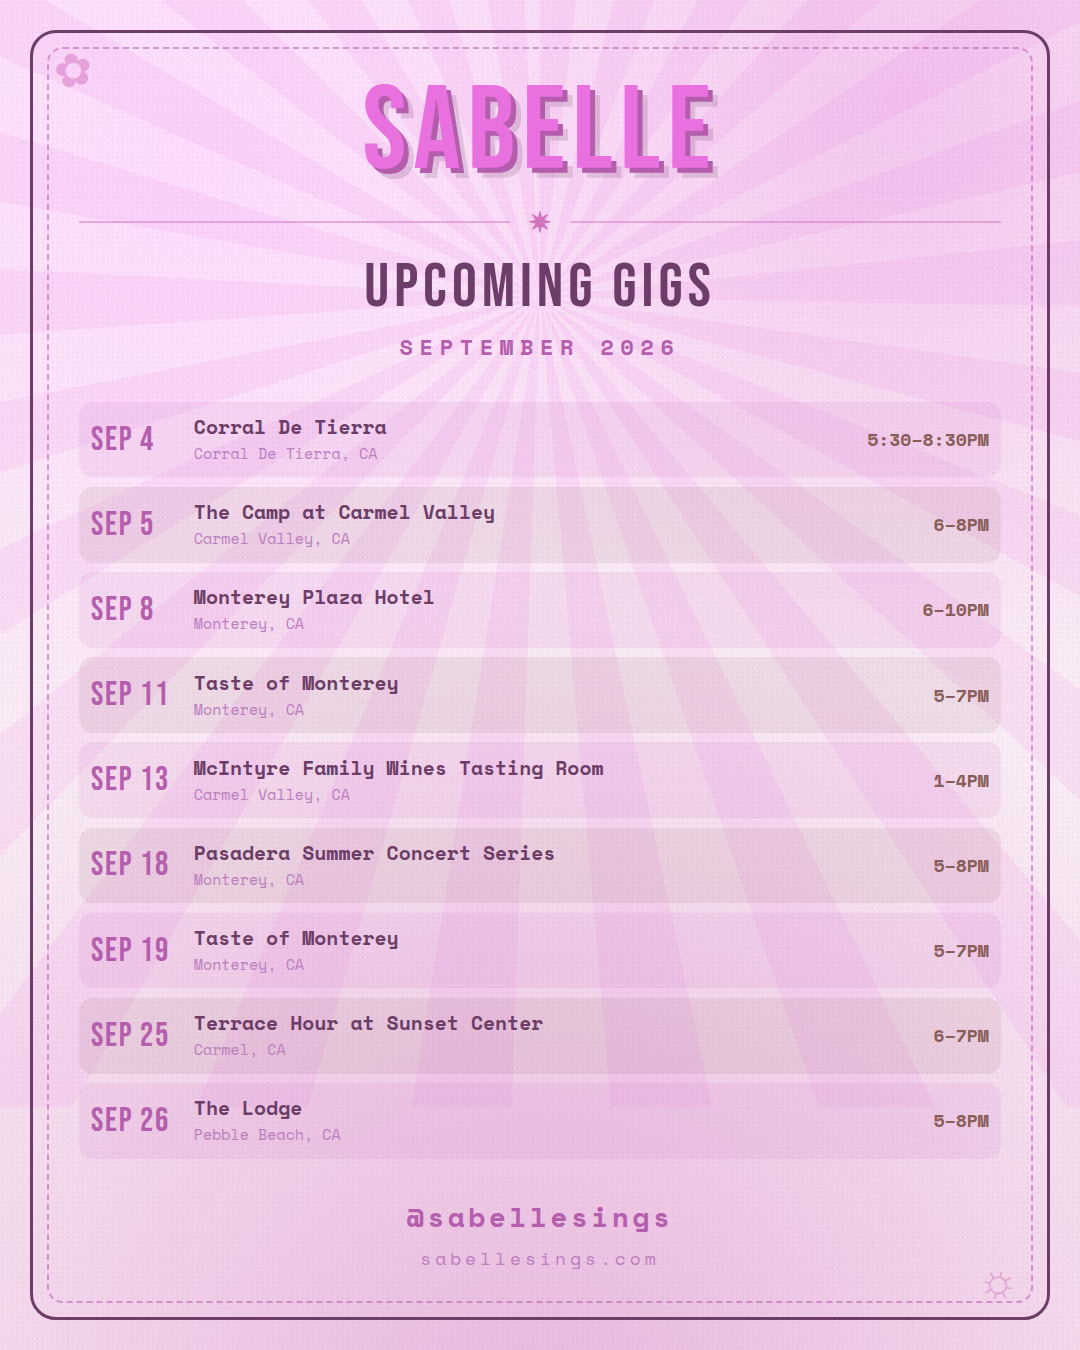
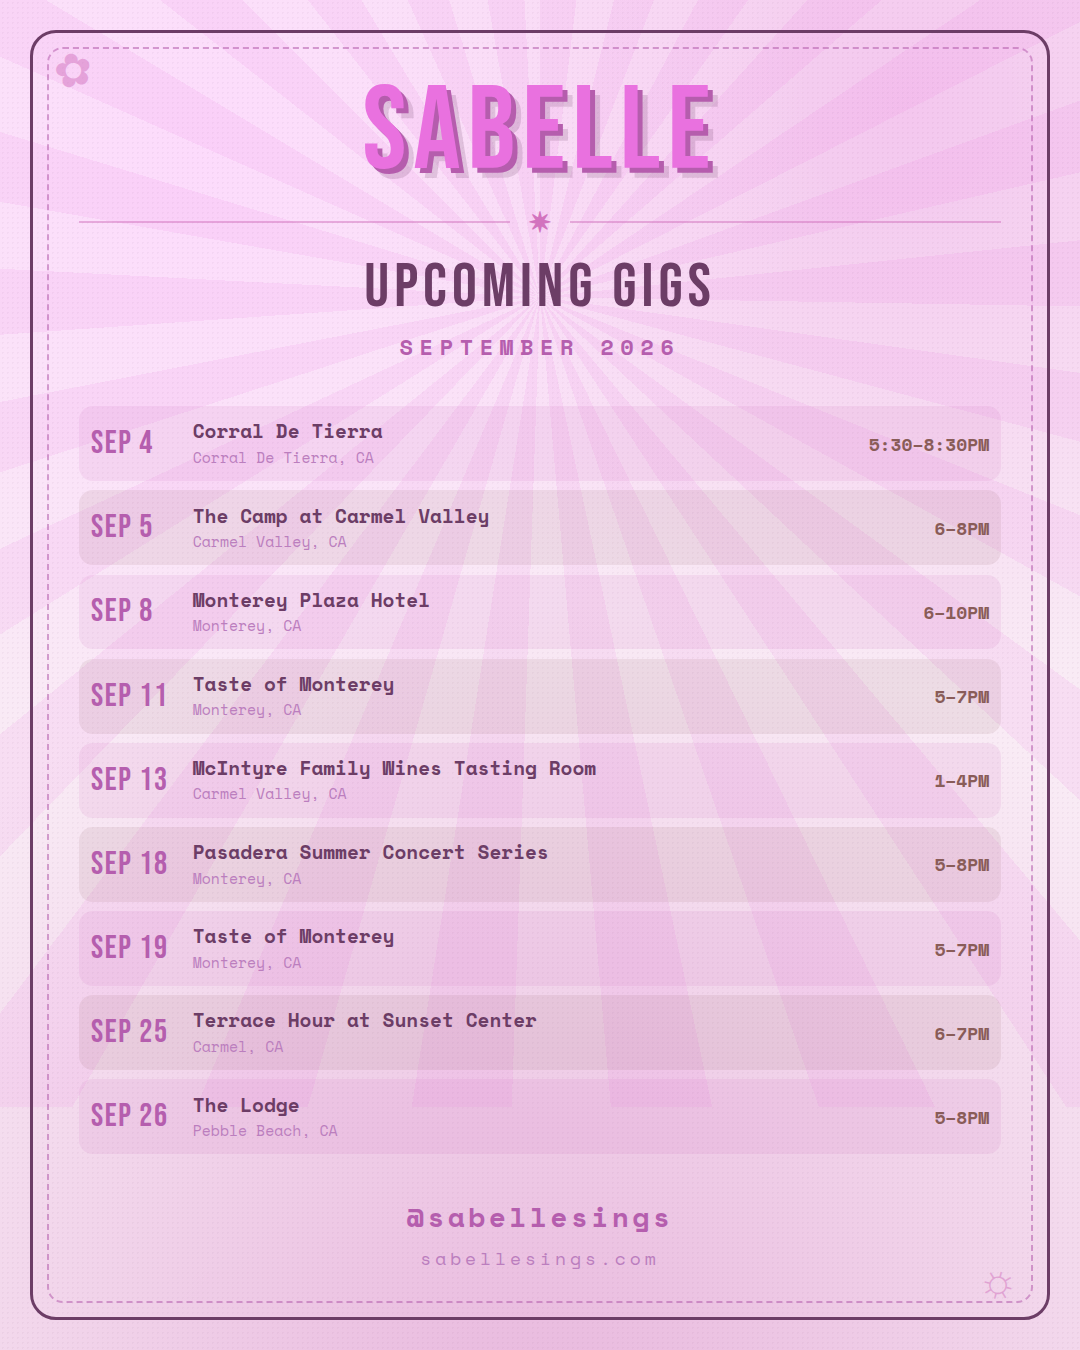
Leave real headroom in the poster fit budgets
The story sweep's upper end arrived after the budgets were set, and it showed
18 rows fitting at exactly 0.50 -- which is precisely the scale a budget of 9.0
asks for. Zero headroom, on the very card whose comment claims it leaves margin
for a font or browser update. Sitting exactly on the measurement is what
clipped the border in the first place.

Post goes 7.1 -> 7.0 and story 9.0 -> 8.8, which puts every row count a clear
step under what actually fits: tightest headroom is now +0.017 on the post and
+0.011 on the story, against 0.000 before. Costs about 1.4% of text size.

Re-validated 9..23 gigs through the real check_cards.py: all clean.

Claude-Session: https://claude.ai/code/session_013qvfFWFemzSJdDJocT6BYd

diff --git a/gigs/index.html b/gigs/index.html
@@ -35,13 +35,13 @@
   <div class="cards">
     <div class="col">
       <h2>Instagram Post — 1080×1350</h2>
-      <img src="gig-card.png?v=20260902195228" alt="Sabelle upcoming gigs poster">
-      <a class="btn" href="gig-card.png?v=20260902195228" download>Download post</a>
+      <img src="gig-card.png?v=20260902125346" alt="Sabelle upcoming gigs poster">
+      <a class="btn" href="gig-card.png?v=20260902125346" download>Download post</a>
     </div>
     <div class="col">
       <h2>Story — 1080×1920</h2>
-      <img src="gig-card-story.png?v=20260902195228" alt="Sabelle upcoming gigs story graphic">
-      <a class="btn" href="gig-card-story.png?v=20260902195228" download>Download story</a>
+      <img src="gig-card-story.png?v=20260902125346" alt="Sabelle upcoming gigs story graphic">
+      <a class="btn" href="gig-card-story.png?v=20260902125346" download>Download story</a>
     </div>
   </div>
 

diff --git a/gigs/card-post.html b/gigs/card-post.html
@@ -123,7 +123,7 @@ body{ display:flex; align-items:center; justify-content:center; }
   --row-pad:17px; --row-gap:12px; --date-size:42px; --venue-size:25px;
   --city-size:19px; --time-size:23px; --foot-top:22px; --handle-size:28px;
   --site-size:18px; --petal:46px; }
-.card{ --date-size:33.1px; --venue-size:19.7px; --city-size:15.0px; --time-size:18.1px; --row-pad:13.4px; --row-gap:9.5px; }</style>
+.card{ --date-size:32.7px; --venue-size:19.4px; --city-size:14.8px; --time-size:17.9px; --row-pad:13.2px; --row-gap:9.3px; }</style>
 </head><body>
   <div class="card">
     <div class="petals p1">✿</div>

diff --git a/scripts/render_gig_card.py b/scripts/render_gig_card.py
@@ -324,10 +324,12 @@ ROW_VARS = {
 FULL_SIZE_ROWS = {False: 7, True: 9}  # keyed by is_story
 
 # Row height is very nearly proportional to the scale, so rows * scale is close
-# to constant. Measured 7.20-7.38 across 8..15 rows for the post and
-# 9.10-9.36 across 10..16 for the story; each budget sits just under the tightest
-# measurement, leaving margin for a font or browser update moving the metrics.
-FIT_BUDGET = {False: 7.1, True: 9.0}
+# to constant. Measured across the full range each card can hold: 7.20-7.38 for
+# the post (8..15 rows) and 9.00-9.36 for the story (10..20). Each budget sits a
+# clear step under the tightest of those rather than exactly on it, so a font or
+# browser update nudging the metrics cannot tip a card over. Sitting exactly on
+# the measurement is what produced the clipped border in the first place.
+FIT_BUDGET = {False: 7.0, True: 8.8}
 
 # The most rows a card can hold at all. A month only gets sent to the website
 # when it genuinely will not fit, and even then the "+N more" line takes one of
